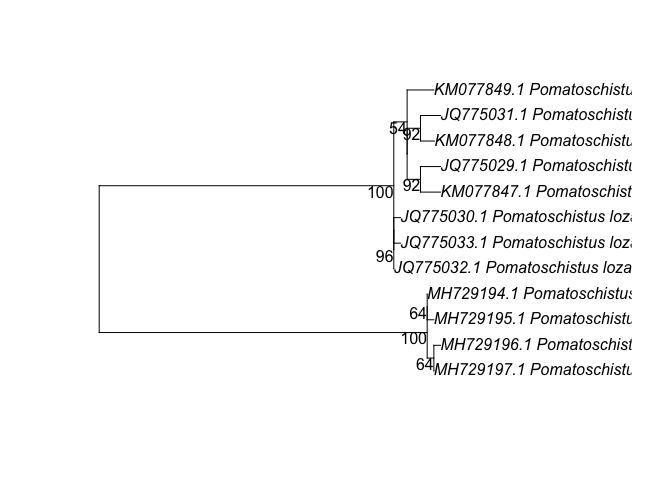
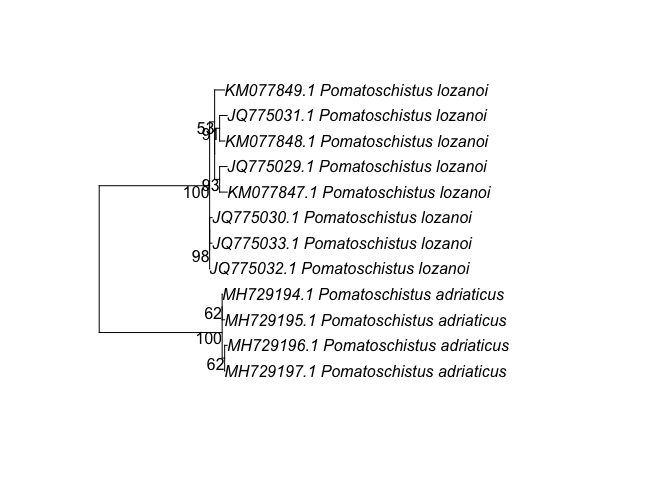
add all functions

Changed region(s): [[0.2812, 0.1562, 0.9375, 0.8125]]

diff --git a/README.md b/README.md
@@ -19,7 +19,7 @@ You can install the development version from
 # install.packages("devtools")
 devtools::install_github("jurenoult/fishphylo")
 #> Using github PAT from envvar GITHUB_PAT
-#> Skipping install of 'fishphylo' from a github remote, the SHA1 (9767285c) has not changed since last install.
+#> Skipping install of 'fishphylo' from a github remote, the SHA1 (9cb463cc) has not changed since last install.
 #>   Use `force = TRUE` to force installation
 ```
 
@@ -44,7 +44,7 @@ BiocManager::install("msa")
 #> Installing package(s) 'msa'
 #> 
 #> The downloaded binary packages are in
-#>  /var/folders/w5/jhktndf97sb8mxkgwmcbjy400000gq/T//RtmpfQDi3G/downloaded_packages
+#>  /var/folders/w5/jhktndf97sb8mxkgwmcbjy400000gq/T//RtmpSfg9Uw/downloaded_packages
 library(msa)
 ```
 
@@ -114,50 +114,18 @@ fas <- align_fasta("combined_seq.fasta")
 Plot a NJ tree based on JC69 distance matrix, with bootstraps
 
 ``` r
-NJ_tree <- build_NJtree(fas,"example.tre")
+NJ_tree <- build_MLtree(fas,"example.tre")
 #> negative edges length changed to 0!
-#> optimize edge weights:  -1454.906 --> -1452.667 
-#> optimize edge weights:  -1452.667 --> -1452.667 
-#> optimize topology:  -1452.667 --> -1451.396 
-#> optimize topology:  -1451.396 --> -1451.396 
-#> 1 
-#> optimize edge weights:  -1451.396 --> -1451.396 
-#> optimize topology:  -1451.396 --> -1451.396 
-#> 0 
-#> [1] "Ratchet iteration  1 , best pscore so far: -1451.39562913874"
-#> [1] "Ratchet iteration  2 , best pscore so far: -1451.39562913874"
-#> [1] "Ratchet iteration  3 , best pscore so far: -1451.39562913874"
-#> [1] "Ratchet iteration  4 , best pscore so far: -1451.39562913874"
-#> [1] "Ratchet iteration  5 , best pscore so far: -1451.39562913874"
-#> [1] "Ratchet iteration  6 , best pscore so far: -1451.39562913874"
-#> [1] "Ratchet iteration  7 , best pscore so far: -1451.39562913874"
-#> [1] "Ratchet iteration  8 , best pscore so far: -1451.39562913874"
-#> [1] "Ratchet iteration  9 , best pscore so far: -1451.39562913874"
-#> [1] "Ratchet iteration  10 , best pscore so far: -1451.39562913874"
-#> [1] "Ratchet iteration  11 , best pscore so far: -1451.39562913874"
-#> [1] "Ratchet iteration  12 , best pscore so far: -1451.39562913874"
-#> [1] "Ratchet iteration  13 , best pscore so far: -1451.39562913874"
-#> [1] "Ratchet iteration  14 , best pscore so far: -1451.39562913874"
-#> [1] "Ratchet iteration  15 , best pscore so far: -1451.39562913874"
-#> [1] "Ratchet iteration  16 , best pscore so far: -1451.39562913874"
-#> [1] "Ratchet iteration  17 , best pscore so far: -1451.39562913874"
-#> [1] "Ratchet iteration  18 , best pscore so far: -1451.39562913874"
-#> [1] "Ratchet iteration  19 , best pscore so far: -1451.39562913874"
-#> [1] "Ratchet iteration  20 , best pscore so far: -1451.39562913874"
-#> optimize edge weights:  -1451.396 --> -1451.396 
-#> optimize topology:  -1451.396 --> -1451.396 
-#> 0 
-#> optimize edge weights:  -1451.396 --> -1451.396
-#> Warning in if (!is.na(tmp)) {: la condition a une longueur > 1 et seul le premier élément est utilisé
-#> Warning in if (tmp == 1) {: la condition a une longueur > 1 et seul le premier élément est utilisé
-#> Warning in if (tmp == 2) do_rearr <- extras$rearrangement %in% c("NNI", : la condition a une longueur > 1 et
-#> seul le premier élément est utilisé
+#> Warning in if (!is.na(tmp)) {: la condition a une longueur > 1 et seul le premier
+#> élément est utilisé
+#> Warning in if (tmp == 1) {: la condition a une longueur > 1 et seul le premier
+#> élément est utilisé
+#> Warning in if (tmp == 2) do_rearr <- extras$rearrangement %in% c("NNI", : la
+#> condition a une longueur > 1 et seul le premier élément est utilisé
 ```
 
 <img src="man/figures/README-unnamed-chunk-10-1.png" width="100%" />
 
 ``` r
-plot_tree(NJ_tree)
+#plot_tree(NJ_tree)
 ```
-
-<img src="man/figures/README-unnamed-chunk-10-2.png" width="100%" />
